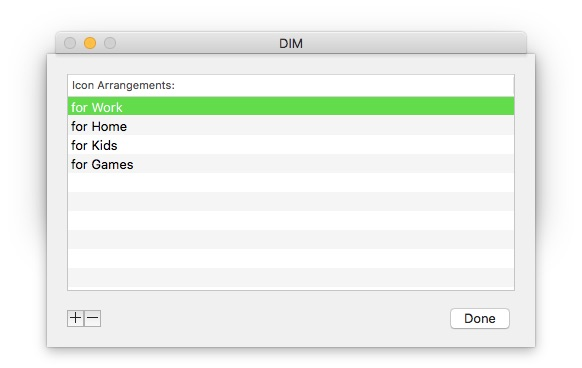
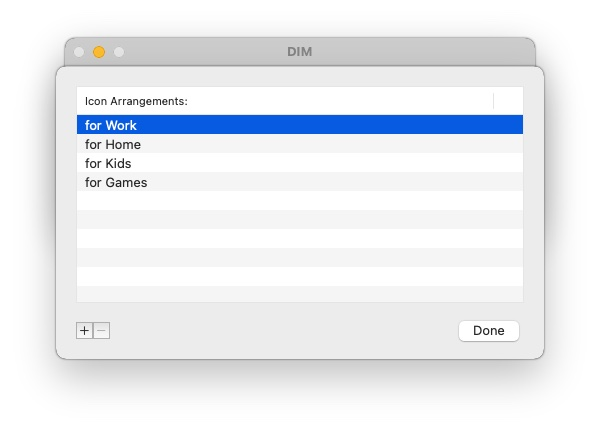
update Help to reflect Big Sur

Changed region(s): [[0.0619, 0.0897, 0.9278, 0.9864], [0.7732, 0.7473, 0.8351, 0.7772]]

diff --git a/DIM/Resources/DIM 4.0.help/Contents/Resources/en.lproj/Contact_and_version_hist.html b/DIM/Resources/DIM 4.0.help/Contents/Resources/en.lproj/Contact_and_version_hist.html
@@ -17,6 +17,7 @@
 <p class="Left Normal">DIM’s home is located at http://www.parker9.com/script.html. Furthermore, email can be send to DIM@parker9.com</p>
 
 <p class="Left Normal">Version History</p>
+<p class="Left Normal">— 22 April 2020, v4.0.3- Better warning for Restart at Start and then Quit. Also allow for 5 seconds before quiting in this case.</p>
 <p class="Left Normal">— 25 November 2020, v4.0.2- Include both Apple Silicon and Intel binaries.</p>
 <p class="Left Normal">— 19 December 2019, v4.0.1- Bug fix for pre macOS 10.13 systems (thanks to Sergio Sisani). DIM could get confused if it was saving icon positions for the Desktop or a Finder window when adding a new arrangement.</p>
 <p class="Left Normal">— 16 November 2019, v4.0- DIM has the following added features: Hide/Unhide Desktop icons, Memorize/Restore Finder windows in icon view and Automatically memorize Icon Arrangements at Quit or selected time intervals.</p>

diff --git a/DIM/Resources/DIM 4.0.help/Contents/Resources/en.lproj/First_time_use.html b/DIM/Resources/DIM 4.0.help/Contents/Resources/en.lproj/First_time_use.html
@@ -20,7 +20,7 @@
 <p class="Left Normal">
 <img src="First_time_use.jpg" alt="" />
 </p>
-<p class="Left Normal">(ok, perhaps you don’t have 432 icons, but now you know why I wrote DIM…). Depending on your version of macOS, before you see this window, you may see something like this:</p>
+<p class="Left Normal">Depending on your version of macOS, before you see this window, you may see something like this:</p>
 <p class="Left Normal">
 <img src="First_time_use1.jpg" alt="" />
 </p>
